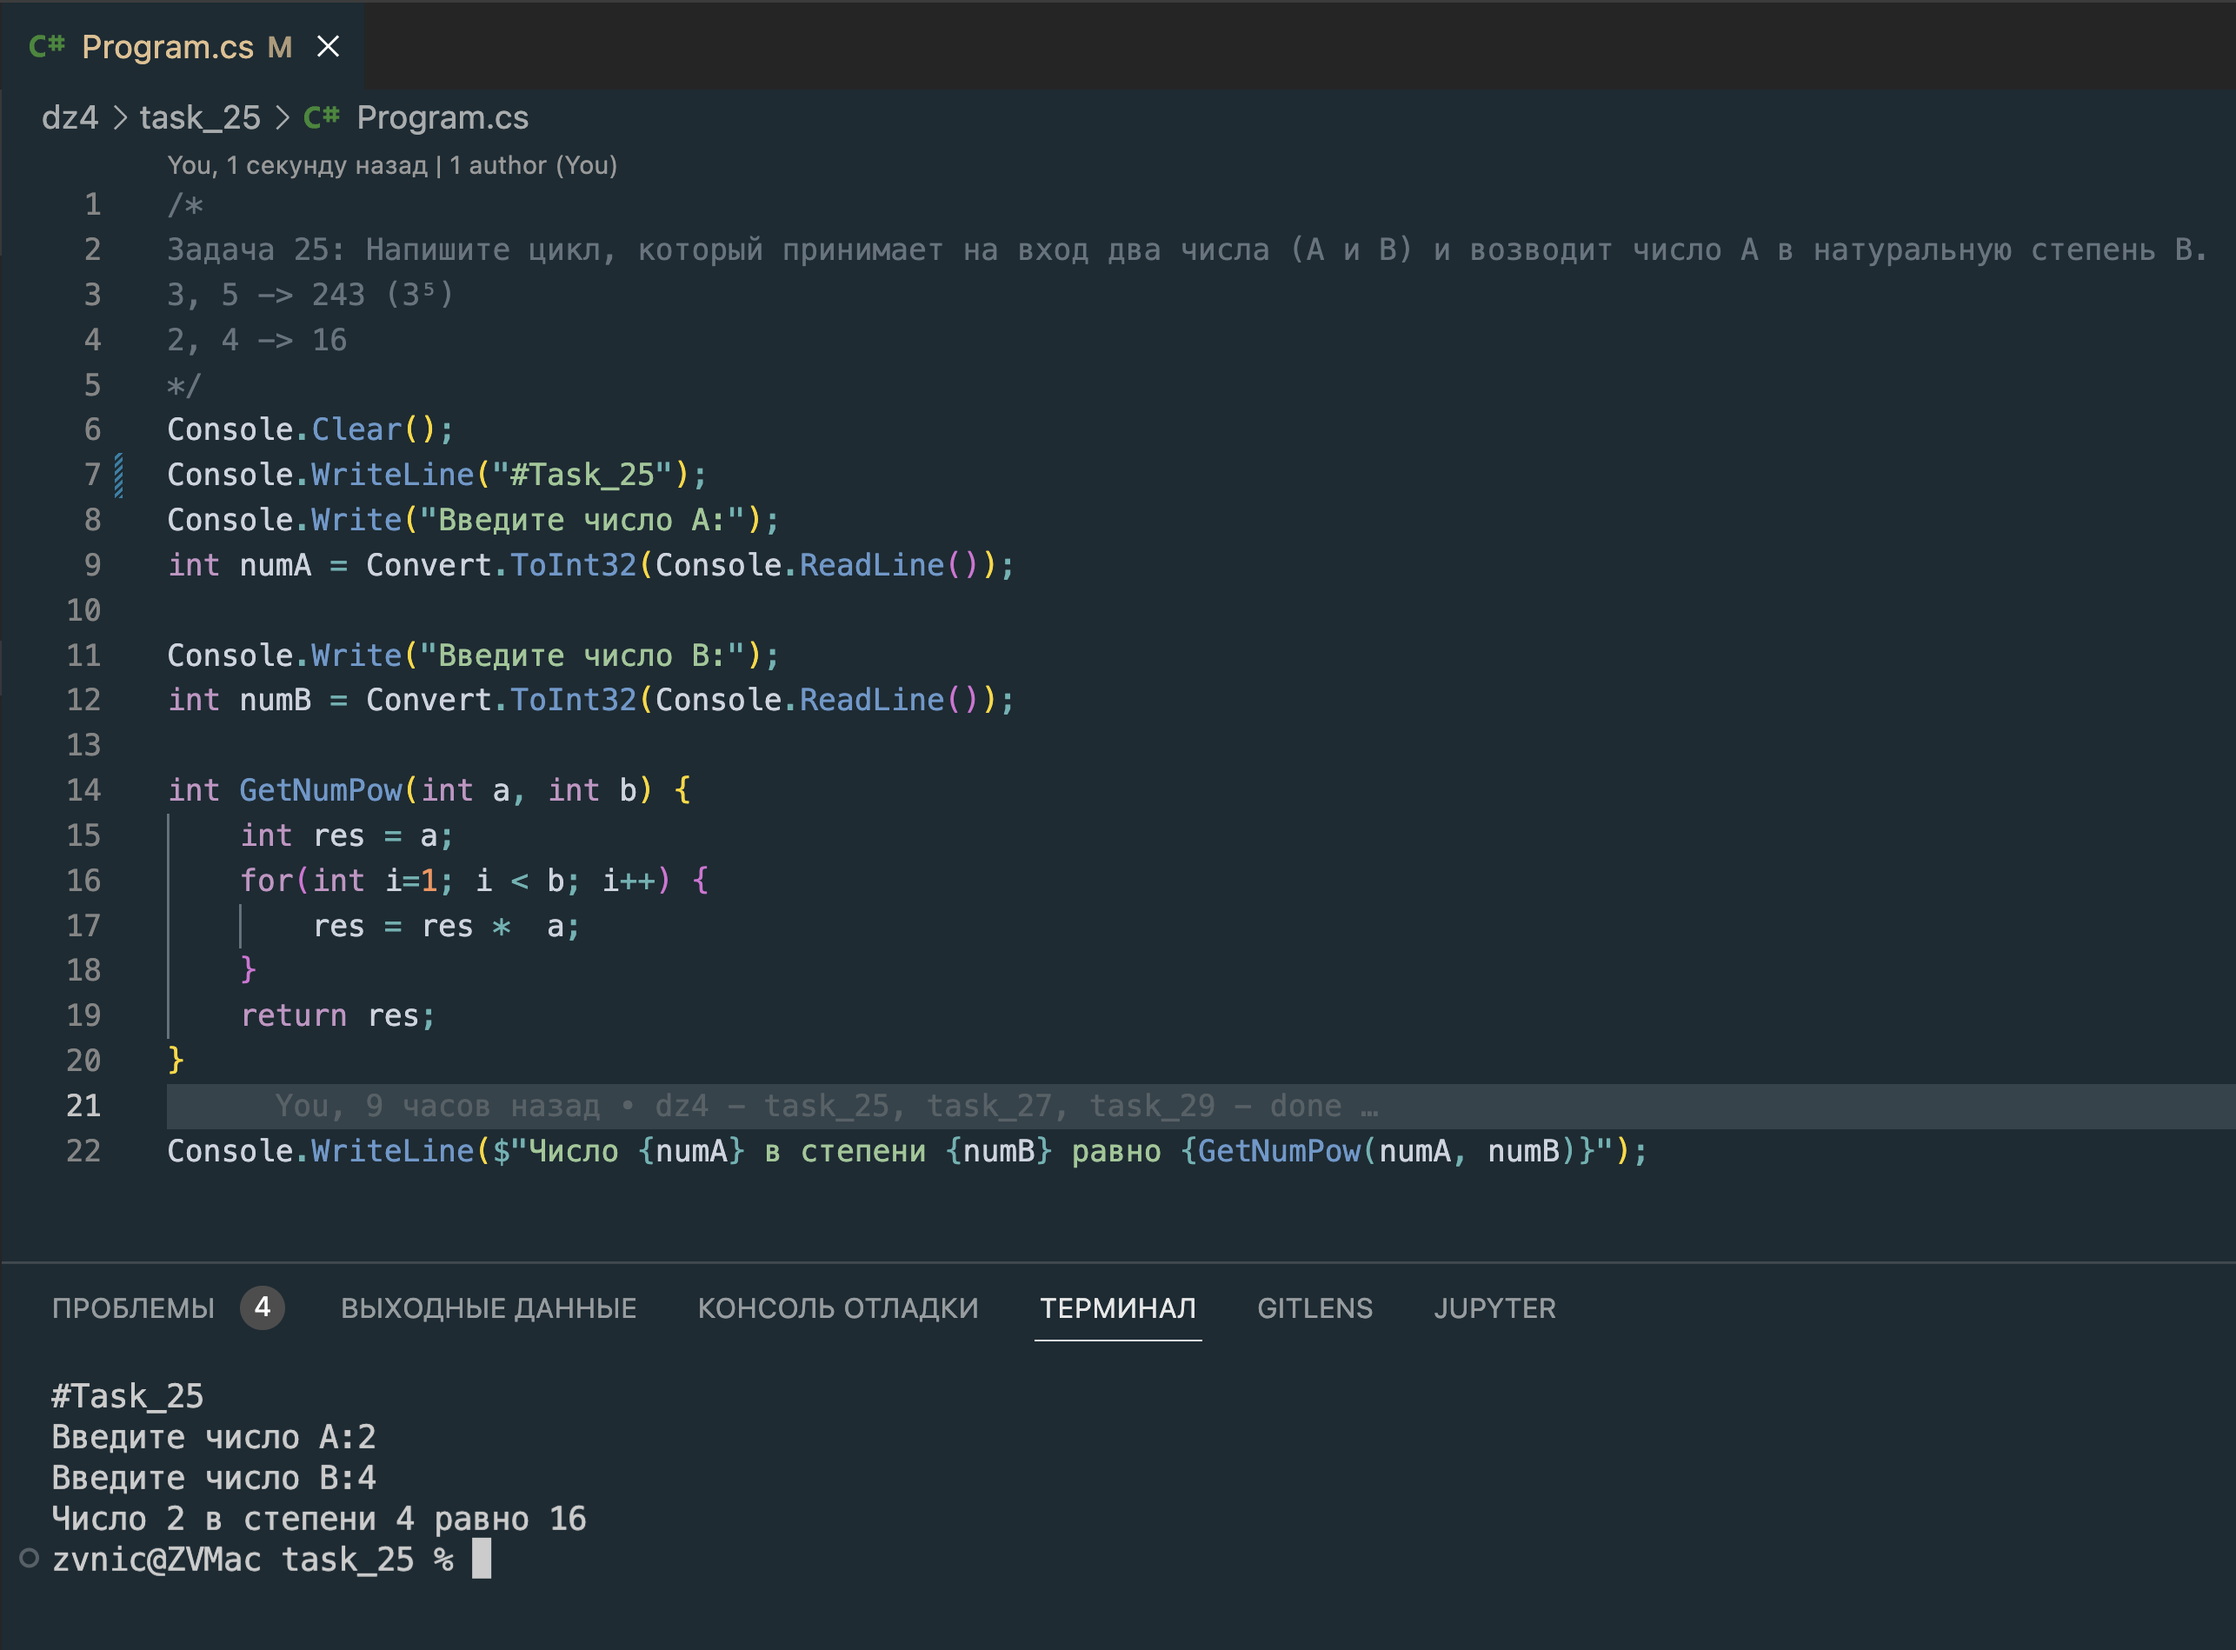
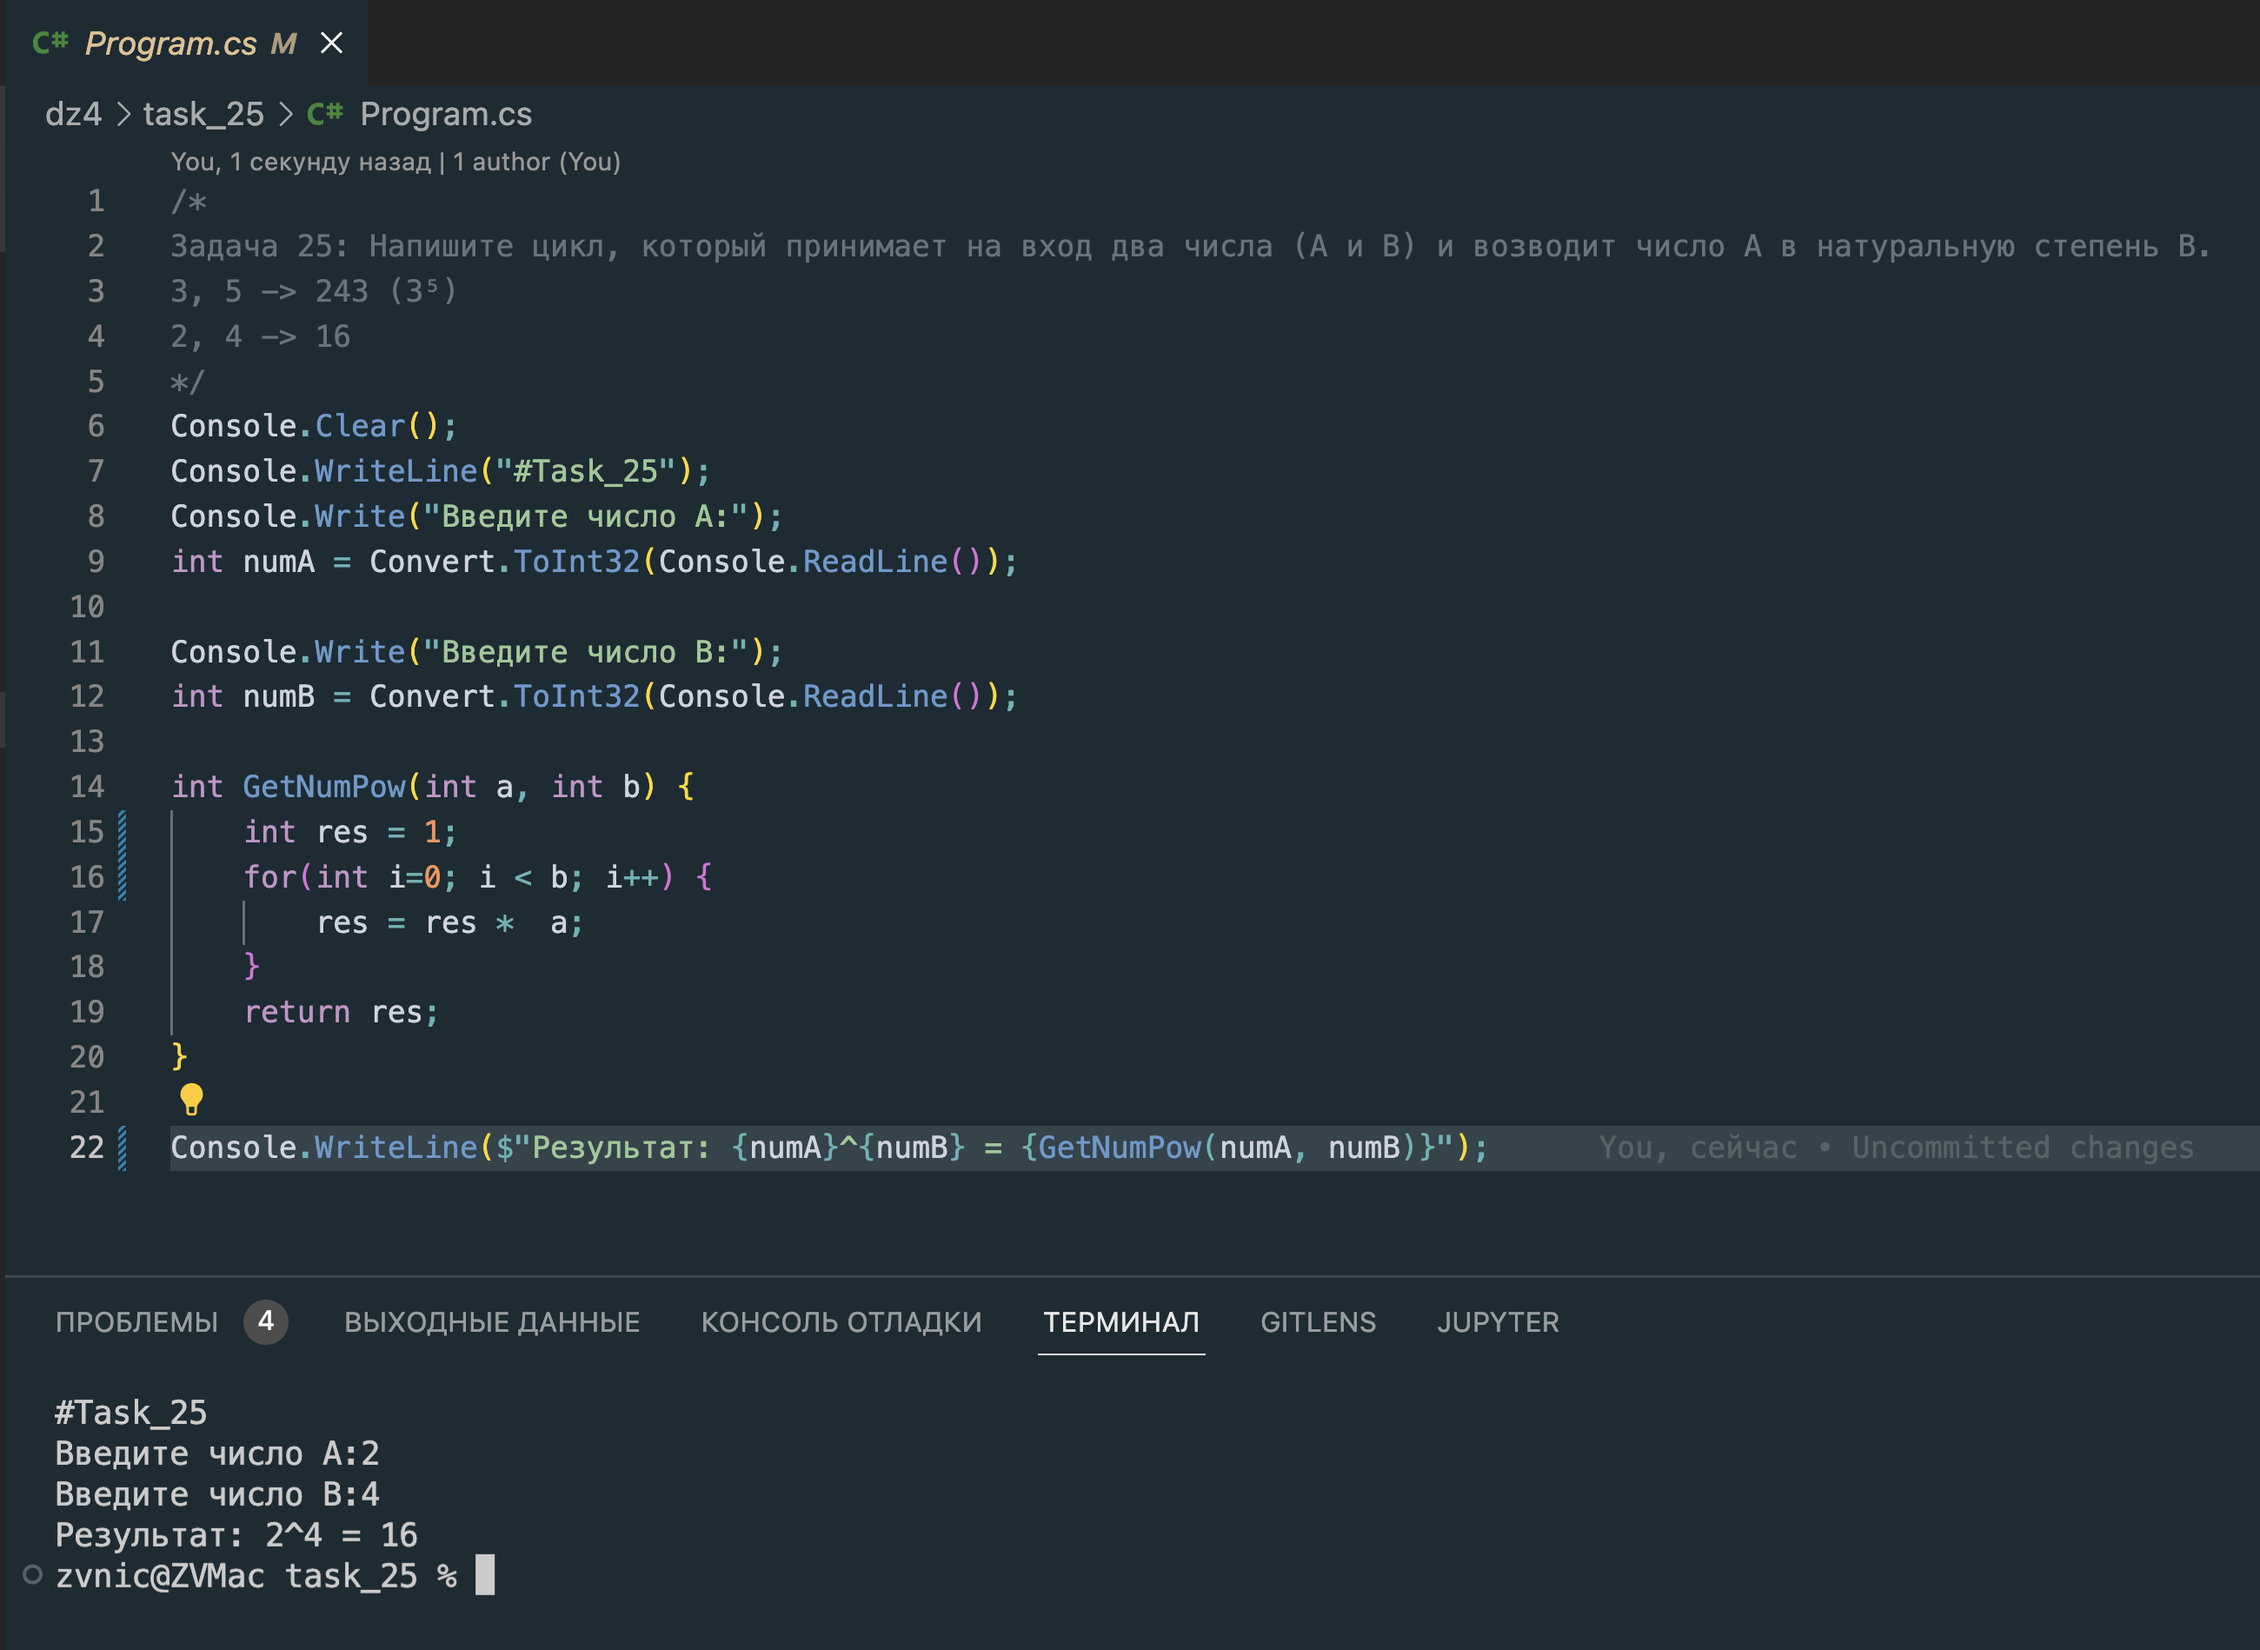
dz4 screen result

diff --git a/dz4/task_25/Program.cs b/dz4/task_25/Program.cs
@@ -12,11 +12,11 @@ Console.Write("Введите число B:");
 int numB = Convert.ToInt32(Console.ReadLine());
 
 int GetNumPow(int a, int b) {
-    int res = a;
-    for(int i=1; i < b; i++) {
+    int res = 1;
+    for(int i=0; i < b; i++) {
         res = res *  a;
     }
     return res;
 }
 
-Console.WriteLine($"Число {numA} в степени {numB} равно {GetNumPow(numA, numB)}");
+Console.WriteLine($"Результат: {numA}^{numB} = {GetNumPow(numA, numB)}");
